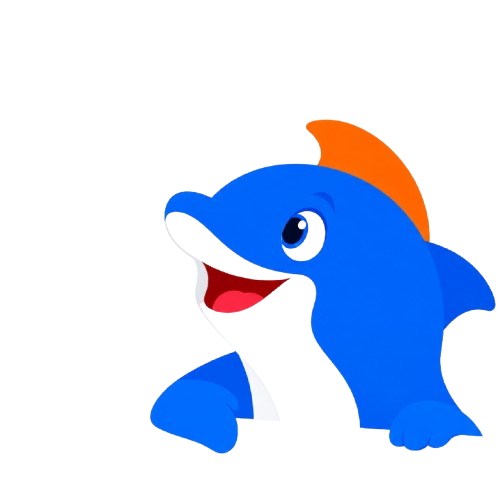
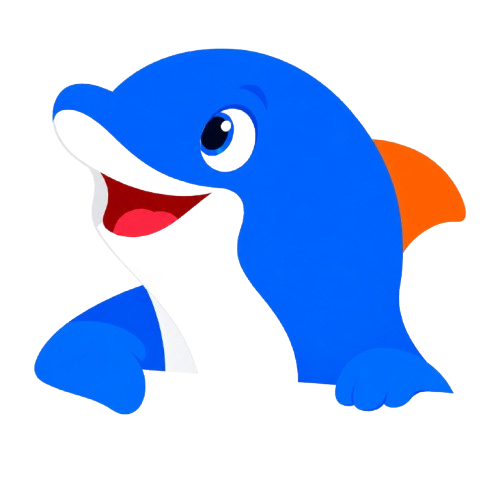
mascot looking up and fin is corrected

diff --git a/frontend/app/(landing)/components/Fire.tsx b/frontend/app/(landing)/components/Fire.tsx
@@ -16,7 +16,7 @@ export default function FireCta() {
 
         <div className="landing-fire-mascot-wrap">
           <Image
-            src="/temp/mascot-fixed-fin.png"
+            src="/temp/mascot-looking-up.png"
             alt="FirePhin mascot"
             width={260}
             height={260}
